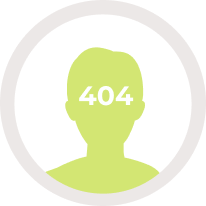
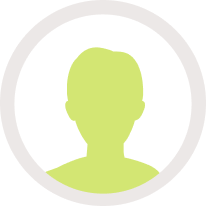
maybe that all

Changed region(s): [[0.3786, 0.4078, 0.6699, 0.5243]]

diff --git a/components/ProfileComponents/PhotoProfile.jsx b/components/ProfileComponents/PhotoProfile.jsx
@@ -1,7 +1,8 @@
 import * as ImagePicker from 'expo-image-picker';
 import * as FileSystem from 'expo-file-system';
+import * as ImageManipulator from 'expo-image-manipulator';
 import React, { useState, useEffect } from 'react';
-import { View, Image, TouchableOpacity, Platform } from 'react-native';
+import { View, Image, TouchableOpacity } from 'react-native';
 import styled from 'styled-components/native';
 import { supabase } from '../../lib/supabase';
 
@@ -35,88 +36,14 @@ const EmailText = styled.Text`
 `;
 
 function PhotoProfile({ session, name, lname }) {
-  const [avatarUrl, setAvatarUrl] = useState(null);
-
-  const getPhoto = async () => {
-    try {
-      const { data, error } = await supabase.storage.from('avatars').download('admin1.jpeg');
-
-      if (error) {
-        console.error('Error downloading image:', error);
-      } else {
-        const imageUrl = data ? data.publicURL : null;
-        setAvatarUrl(imageUrl);
-      }
-    } catch (error) {
-      console.error('Error loading images:', error);
-    }
-  };
-
-  const openImagePicker = async () => {
-    try {
-      let result;
-      if (Platform.OS === 'ios') {
-        result = await ImagePicker.launchImageLibraryAsync({
-          mediaTypes: ImagePicker.MediaTypeOptions.Images,
-          allowsEditing: true,
-          aspect: [4, 3],
-        });
-      } else {
-        result = await ImagePicker.launchImageLibraryAsync({
-          mediaTypes: ImagePicker.MediaTypeOptions.Images,
-          allowsEditing: true,
-        });
-      }
-
-      if (!result.canceled && result.assets && result.assets.length > 0) {
-        const uri = result.assets[0].uri;
-        uploadImage(uri);
-      }
-    } catch (error) {
-      console.error('Error picking image:', error);
-    }
-  };
-
-  const uploadImage = async (uri) => {
-    try {
-      const base64 = await FileSystem.readAsStringAsync(uri, { encoding: 'base64' });
-
-      if (base64 && base64.length > 0) {
-        const user_id = session.user.id;
-        const fileName = `${user_id}`;
-
-        const { data, error } = await supabase.storage.from('avatars').upload(fileName, base64, {
-          cacheControl: '3600',
-          contentType: 'image/png',
-        });
-
-        if (error) {
-          console.error('Error uploading image:', error);
-        } else {
-          const imageUrl = data.publicURL;
-          setAvatarUrl(imageUrl);
-          console.log('Image uploaded successfully!: ', data.publicURL);
-        }
-      } else {
-        console.error('Empty base64 string received');
-      }
-    } catch (error) {
-      console.error('Error uploading image:', error);
-    }
-  };
-
-  useEffect(() => {
-    getPhoto();
-  }, []);
 
   return (
     <Container>
       <TouchableOpacity onPress={openImagePicker}>
-        <AvatarImage source={avatarUrl ? { uri: avatarUrl } : require('../../assets/avatarka.png')} />
+        <AvatarImage source={require('../../assets/avatarka.png')} />
       </TouchableOpacity>
-      <NameText>
-        {name} {lname}
-      </NameText>
+      {errorMessage && <NameText style={{ color: 'red' }}>{errorMessage}</NameText>} 
+      <NameText>{name} {lname}</NameText>
       <EmailText>{session?.user?.email}</EmailText>
     </Container>
   );

diff --git a/components/MainComponents/TrainingOneDiv.jsx b/components/MainComponents/TrainingOneDiv.jsx
@@ -68,14 +68,14 @@ function TrainingOneDiv({text,time}) {
                     {time} MIN
                 </Text>
             </View>
-            <TouchableOpacity
+            {/* <TouchableOpacity
                 style={{
                     width: "100%",
                     height: "100%"
                 }}
             >
                 <PlaySVG/>
-            </TouchableOpacity>
+            </TouchableOpacity> */}
         </TextTrainDiv>
     </TrainingOneContainer>
   )

diff --git a/components/ProfileComponents/LastActiv.jsx b/components/ProfileComponents/LastActiv.jsx
@@ -1,5 +1,5 @@
 import { useState, useEffect } from 'react';
-import { Text, View } from 'react-native';
+import { Text, View, ScrollView} from 'react-native';
 import styled from 'styled-components';
 import { supabase } from '../../lib/supabase';
 
@@ -24,6 +24,7 @@ const TextiAct = styled.View`
   padding: 0;
   margin: 0;
   padding-top: 30px;
+  margin-bottom: 110px;
 `;
 
 const ActiveDiv = styled.View`
